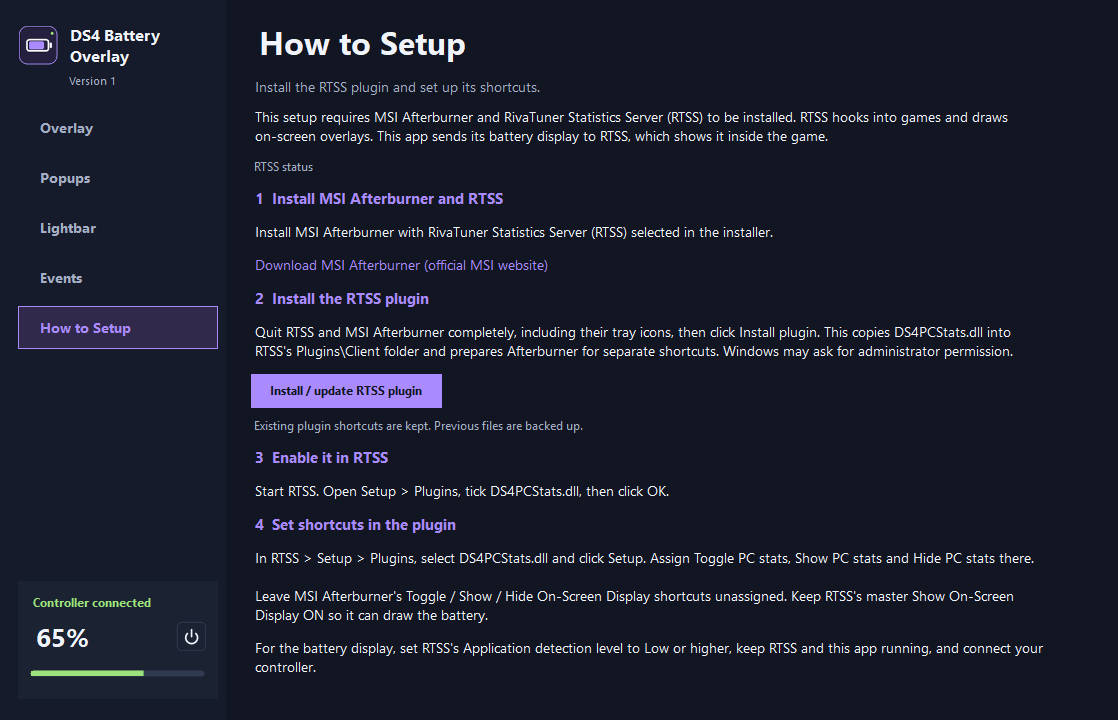
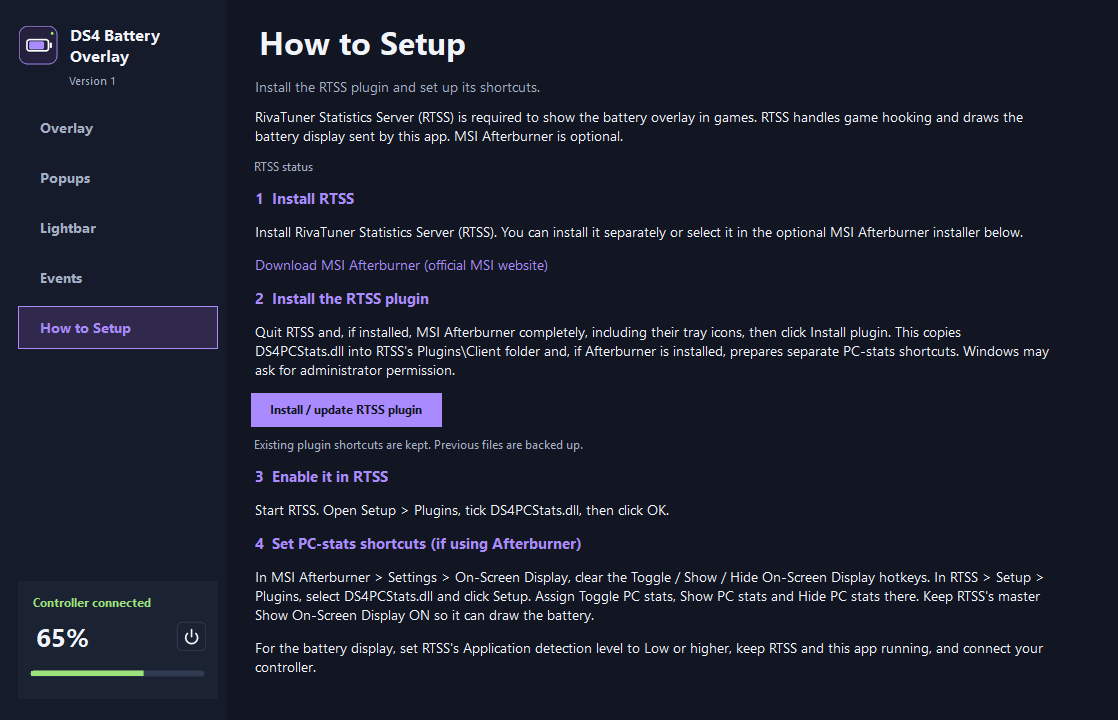
Quiet tray startup
Now starts quietly in the tray

Added troubleshooting steps

Changed region(s): [[0.2129, 0.4583, 0.9428, 0.8861], [0.2129, 0.1528, 0.9123, 0.2139], [0.2433, 0.2444, 0.9123, 0.3361]]

diff --git a/src/App/WindowsStartup.cs b/src/App/WindowsStartup.cs
@@ -7,6 +7,28 @@ static class WindowsStartup
     const string RunPath = @"Software\Microsoft\Windows\CurrentVersion\Run";
     const string Entry = "DS4 Overlay RTSS Test";
 
+    internal static bool ShouldOpenSettings(string[] arguments)
+    {
+        foreach (string argument in arguments)
+            if (string.Equals(argument, "--startup", StringComparison.OrdinalIgnoreCase)) return false;
+        return true;
+    }
+
+    internal static void UpgradeRegistration(string executable)
+    {
+        using (var key = Registry.CurrentUser.OpenSubKey(RunPath, true))
+            if (key != null) UpgradeRegistration(key, executable);
+    }
+
+    static void UpgradeRegistration(RegistryKey key, string executable)
+    {
+        string previous = key.GetValue(Entry) as string;
+        string legacy = "\"" + Path.GetFullPath(executable) + "\"";
+        // Only migrate an enabled entry for this exact copy of the application.
+        if (string.Equals(previous, legacy, StringComparison.OrdinalIgnoreCase))
+            key.SetValue(Entry, Command(executable), RegistryValueKind.String);
+    }
+
     internal static bool IsEnabled()
     {
         using (var key = Registry.CurrentUser.OpenSubKey(RunPath))
@@ -30,8 +52,42 @@ static class WindowsStartup
 
     internal static string Command(string executable)
     {
-        string command = "\"" + Path.GetFullPath(executable) + "\"";
+        string command = "\"" + Path.GetFullPath(executable) + "\" --startup";
         if (command.Length > 260) throw new IOException("Move the app to a shorter path before enabling Windows startup.");
         return command;
+    }
+
+    internal static int SelfTest(string report)
+    {
+        string testPath = @"Software\DS4OverlayRTSSTest\StartupQA\" + Guid.NewGuid().ToString("N");
+        try
+        {
+            string executable = Path.Combine(Path.GetTempPath(), "DS4 startup test", "DS4-Battery-Overlay.exe");
+            string legacy = "\"" + Path.GetFullPath(executable) + "\"";
+            string expected = legacy + " --startup";
+            if (Command(executable) != expected || !ShouldOpenSettings(new string[0]) ||
+                ShouldOpenSettings(new[] { "--startup" }) || ShouldOpenSettings(new[] { "--STARTUP" }))
+                throw new InvalidOperationException("Startup must stay in the tray while a manual launch opens settings.");
+            using (var key = Registry.CurrentUser.CreateSubKey(testPath))
+            {
+                UpgradeRegistration(key, executable);
+                if (key.GetValue(Entry) != null) throw new InvalidOperationException("Startup was enabled without being requested.");
+                key.SetValue(Entry, legacy);
+                key.SetValue("Unrelated", "keep");
+                UpgradeRegistration(key, executable);
+                if ((string)key.GetValue(Entry) != expected || (string)key.GetValue("Unrelated") != "keep")
+                    throw new InvalidOperationException("An existing startup entry was not migrated safely.");
+                UpgradeRegistration(key, executable);
+                if ((string)key.GetValue(Entry) != expected) throw new InvalidOperationException("Startup migration was not idempotent.");
+                string otherCopy = "\"" + Path.Combine(Path.GetTempPath(), "Other copy", "DS4-Battery-Overlay.exe") + "\"";
+                key.SetValue(Entry, otherCopy);
+                UpgradeRegistration(key, executable);
+                if ((string)key.GetValue(Entry) != otherCopy) throw new InvalidOperationException("A different app copy's startup entry was replaced.");
+            }
+            File.WriteAllText(report, "PASS quoted startup command with --startup, tray-only automatic launch, visible manual launch, safe migration of existing entries, disabled startup preserved, unrelated values preserved, idempotence and other app copies left intact.");
+            return 0;
+        }
+        catch (Exception error) { File.WriteAllText(report, error.ToString()); return 1; }
+        finally { Registry.CurrentUser.DeleteSubKeyTree(testPath, false); }
     }
 }

diff --git a/src/App/RtssOutput.cs b/src/App/RtssOutput.cs
@@ -553,11 +553,11 @@ sealed class RtssPage : UserControl
         Dock = DockStyle.Fill; BackColor = StudioTheme.Canvas; AutoScroll = true;
         guide.ColumnStyles.Add(new ColumnStyle(SizeType.Percent, 100));
         Controls.Add(guide);
-        Paragraph(guide, "This setup requires MSI Afterburner and RivaTuner Statistics Server (RTSS) to be installed. RTSS hooks into games and draws on-screen overlays. This app sends its battery display to RTSS, which shows it inside the game.");
+        Paragraph(guide, "RivaTuner Statistics Server (RTSS) is required to show the battery overlay in games. RTSS handles game hooking and draws the battery display sent by this app. MSI Afterburner is optional.");
         status.ForeColor = StudioTheme.Muted;
         AddParagraph(guide, status);
-        Heading(guide, "1  Install MSI Afterburner and RTSS");
-        Paragraph(guide, "Install MSI Afterburner with RivaTuner Statistics Server (RTSS) selected in the installer.");
+        Heading(guide, "1  Install RTSS");
+        Paragraph(guide, "Install RivaTuner Statistics Server (RTSS). You can install it separately or select it in the optional MSI Afterburner installer below.");
         var download = new LinkLabel {
             Text = "Download MSI Afterburner (official MSI website)", Font = StudioTheme.Font(10),
             LinkColor = StudioTheme.Accent, ActiveLinkColor = StudioTheme.Text,
@@ -578,7 +578,7 @@ sealed class RtssPage : UserControl
         };
         AddParagraph(guide, download);
         Heading(guide, "2  Install the RTSS plugin");
-        Paragraph(guide, "Quit RTSS and MSI Afterburner completely, including their tray icons, then click Install plugin. This copies DS4PCStats.dll into RTSS's Plugins\\Client folder and prepares Afterburner for separate shortcuts. Windows may ask for administrator permission.");
+        Paragraph(guide, "Quit RTSS and, if installed, MSI Afterburner completely, including their tray icons, then click Install plugin. This copies DS4PCStats.dll into RTSS's Plugins\\Client folder and, if Afterburner is installed, prepares separate PC-stats shortcuts. Windows may ask for administrator permission.");
         var install = StudioTheme.Button("Install / update RTSS plugin", true);
         install.Margin = new Padding(0, 0, 0, 10);
         AddControl(install);
@@ -602,8 +602,8 @@ sealed class RtssPage : UserControl
         };
         Heading(guide, "3  Enable it in RTSS");
         Paragraph(guide, "Start RTSS. Open Setup > Plugins, tick DS4PCStats.dll, then click OK.");
-        Heading(guide, "4  Set shortcuts in the plugin");
-        Paragraph(guide, "In RTSS > Setup > Plugins, select DS4PCStats.dll and click Setup. Assign Toggle PC stats, Show PC stats and Hide PC stats there.\n\nLeave MSI Afterburner's Toggle / Show / Hide On-Screen Display shortcuts unassigned. Keep RTSS's master Show On-Screen Display ON so it can draw the battery.");
+        Heading(guide, "4  Set PC-stats shortcuts (if using Afterburner)");
+        Paragraph(guide, "In MSI Afterburner > Settings > On-Screen Display, clear the Toggle / Show / Hide On-Screen Display hotkeys. In RTSS > Setup > Plugins, select DS4PCStats.dll and click Setup. Assign Toggle PC stats, Show PC stats and Hide PC stats there. Keep RTSS's master Show On-Screen Display ON so it can draw the battery.");
         Paragraph(guide, "For the battery display, set RTSS's Application detection level to Low or higher, keep RTSS and this app running, and connect your controller.");
         ClientSizeChanged += delegate { FitGuide(); };
         VisibleChanged += delegate {

diff --git a/src/App/DS4Studio.cs b/src/App/DS4Studio.cs
@@ -128,7 +128,10 @@ sealed class Overlay : Form
         trayMenu.Opening += delegate { UpdatePowerOffItem(); };
         if (loadPreferences)
         {
-            try { startupItem.Checked = WindowsStartup.IsEnabled(); }
+            try {
+                WindowsStartup.UpgradeRegistration(Application.ExecutablePath);
+                startupItem.Checked = WindowsStartup.IsEnabled();
+            }
             catch (UnauthorizedAccessException) { }
             catch (System.Security.SecurityException) { }
             startupItem.Click += delegate {
@@ -661,6 +664,7 @@ sealed class Overlay : Form
         Application.EnableVisualStyles();
         Application.SetCompatibleTextRenderingDefault(false);
         if (args.Length == 1 && args[0] == "--install-rtss-plugin") return RtssPluginInstaller.Run();
+        if (args.Length == 1 && args[0] == "--startup-self-test") return WindowsStartup.SelfTest(Path.Combine(AppDomain.CurrentDomain.BaseDirectory, "startup-self-test.txt"));
         if (args.Length == 1 && args[0] == "--rtss-self-test") return RtssDiagnostics.SelfTest();
         if (args.Length == 1 && args[0] == "--widget-self-test") return DesktopBatteryWidget.SelfTest(Path.Combine(AppDomain.CurrentDomain.BaseDirectory, "widget-self-test.txt"));
         if (args.Length == 1 && args[0] == "--studio-widget-self-test") return StudioWindowPresentation.SelfTest(Path.Combine(AppDomain.CurrentDomain.BaseDirectory, "studio-widget-self-test.txt"));
@@ -775,7 +779,8 @@ sealed class Overlay : Form
             using (var session = new RtssTestSession())
             using (var trayApp = new Overlay(session.Publisher, true, session.Legacy))
             {
-                trayApp.BeginInvoke(new Action(trayApp.Customize));
+                if (WindowsStartup.ShouldOpenSettings(args))
+                    trayApp.BeginInvoke(new Action(trayApp.Customize));
                 Application.Run();
             }
         }

diff --git a/src/App/RtssPluginInstaller.cs b/src/App/RtssPluginInstaller.cs
@@ -158,7 +158,7 @@ static class RtssPluginInstaller
                     "DS4OverlayRTSSTest", "RTSSPluginBackups"), RequireClosed);
             string message = (result.Changed ? "Plugin installed." : "The plugin is already up to date.") +
                 "\n\nStart RTSS, open Setup > Plugins, enable DS4PCStats.dll and click OK. Select the plugin and open Setup to set its shortcuts.";
-            if (!result.AfterburnerConfigured) message += "\n\nMSI Afterburner was not found. Run this installer again after installing it to prepare independent PC-stats shortcuts.";
+            if (!result.AfterburnerConfigured) message += "\n\nMSI Afterburner is optional. If you install it later, run this installer again to prepare independent PC-stats shortcuts.";
             if (result.BackupDirectory != null) message += "\n\nPrevious files were backed up to:\n" + result.BackupDirectory;
             MessageBox.Show(message, "RTSS plugin", MessageBoxButtons.OK, MessageBoxIcon.Information);
             return 0;

diff --git a/README.md b/README.md
@@ -17,7 +17,7 @@
 
 A lightweight Windows app that shows your DualShock 4 battery in games through **RivaTuner Statistics Server (RTSS)**. Add a movable desktop widget, choose when notifications appear, and personalize the controller's lightbar—all from one interface.
 
-**[Get started](#getting-started)** · **[Screenshots](#screenshots)** · **[Build from source](#build-from-source)** · **[Troubleshooting](docs/TROUBLESHOOTING.md)**
+**[Get started](#getting-started)** · **[Screenshots](#screenshots)** · **[Build from source](#build-from-source)** · **[Troubleshooting](#troubleshooting)**
 
 ## Features
 
@@ -38,19 +38,39 @@ A lightweight Windows app that shows your DualShock 4 battery in games through *
 
 - Windows 10 or 11, **64-bit**, with .NET Framework 4.8.
 - A DualShock 4 connected over Bluetooth or USB and visible to this app.
-- **MSI Afterburner and RTSS**, installed separately. Select RivaTuner Statistics Server in the Afterburner installer: **[official MSI Afterburner download](https://www.msi.com/Landing/afterburner)**.
+- **RTSS**, installed separately. MSI Afterburner is optional; you can also install RTSS through the **[official MSI Afterburner installer](https://www.msi.com/Landing/afterburner)** by selecting RivaTuner Statistics Server.
 
 ### Setup
 
 1. Download the Windows ZIP from this repository's **Releases** section, extract it to a permanent folder, and run `DS4-Battery-Overlay.exe`.
-2. Quit RTSS and MSI Afterburner completely, including their tray icons. In this app, open **How to Setup → Install / update RTSS plugin**. Accept the Windows administrator prompt.
+2. Quit RTSS and, if installed, MSI Afterburner completely, including their tray icons. In this app, open **How to Setup → Install / update RTSS plugin**. Accept the Windows administrator prompt.
 3. Start RTSS. Open **Setup → Plugins**, enable **DS4PCStats.dll**, and click **OK**.
-4. Select that plugin and open **Setup** to assign **Toggle PC stats**, **Show PC stats**, and **Hide PC stats**. Leave Afterburner's global OSD shortcuts unassigned and RTSS's master **Show On-Screen Display** switched on.
+4. If you use MSI Afterburner stats, select that plugin and open **Setup** to assign **Toggle PC stats**, **Show PC stats**, and **Hide PC stats**. Leave Afterburner's global OSD shortcuts unassigned. Keep RTSS's master **Show On-Screen Display** switched on.
 5. Keep RTSS and DS4 Battery Overlay running, set RTSS's **Application detection level** to **Low** or higher for the game, and connect your controller.
 
 The battery shortcut defaults to **Ctrl + Shift + F8** and can be changed on the Overlay page. Click the tray icon to bring the app forward; right-click it for quick actions.
 
 The app embeds its own plugin, so the install button does not require you to copy a DLL manually. It preserves existing plugin shortcuts, backs up changed files, and prepares Afterburner's output for independent PC-stat controls. See [what the installer changes](docs/ARCHITECTURE.md#plugin-installation).
+
+## Troubleshooting
+
+**I don't see any overlay in-game.**
+
+RTSS must be running to display in-game overlays. Keep both RTSS and DS4 Battery Overlay open.
+
+**RTSS is running, but there is still no overlay.**
+
+Quit DS4 Battery Overlay, right-click its EXE, and select **Run as administrator**. Also check that RTSS's **Show On-Screen Display** is on and **Application detection level** is **Low** or higher for your game.
+
+**Toggling MSI Afterburner stats also toggles the battery overlay.**
+
+In **MSI Afterburner → Settings → On-Screen Display**, clear the **Toggle**, **Show**, and **Hide On-Screen Display** hotkeys. Then open **RTSS → Setup → Plugins**, enable **DS4PCStats.dll**, select it, and click **Setup**. Set **Toggle PC stats**, **Show PC stats**, and **Hide PC stats** there. Keep RTSS's master OSD on; change the battery shortcut separately on this app's **Overlay** page.
+
+**Do I need MSI Afterburner installed?**
+
+No. Only **RTSS** is required for the in-game battery overlay. MSI Afterburner is optional.
+
+For other issues, see the [full troubleshooting guide](docs/TROUBLESHOOTING.md).
 
 ## Screenshots
 
@@ -114,7 +134,7 @@ See [Architecture](docs/ARCHITECTURE.md) for implementation details and [Trouble
 
 ## Updates and settings
 
-Quit the app before replacing the executable in the same folder. Settings and event history are kept separately and survive updates. Windows startup is opt-in and points to the executable's current location, so keep it in a permanent folder.
+Quit the app before replacing the executable in the same folder. Settings and event history are kept separately and survive updates. Windows startup is opt-in and launches quietly in the tray; click the tray icon to open settings. Opening the EXE manually still opens the settings window. Keep the executable in a permanent folder because the startup entry points to its current location.
 
 For compatibility with earlier development builds, settings use `HKEY_CURRENT_USER\Software\DS4OverlayRTSSTest`, and event history uses `%LOCALAPPDATA%\DS4OverlayRTSSTest\controller-events.log`.
 

diff --git a/docs/QUICKSTART.md b/docs/QUICKSTART.md
@@ -2,11 +2,11 @@
 
 ## Install
 
-1. Install MSI Afterburner with RivaTuner Statistics Server (RTSS) selected in the installer: https://www.msi.com/Landing/afterburner
+1. Install RivaTuner Statistics Server (RTSS). MSI Afterburner is optional; you can also install RTSS through its installer: https://www.msi.com/Landing/afterburner
 2. Extract this ZIP to a permanent folder and run DS4-Battery-Overlay.exe. Windows 10/11 x64 with .NET Framework 4.8 is required.
-3. Quit RTSS and MSI Afterburner completely. Open How to Setup in this app and click Install / update RTSS plugin. Accept Windows' administrator prompt.
+3. Quit RTSS and, if installed, MSI Afterburner completely. Open How to Setup in this app and click Install / update RTSS plugin. Accept Windows' administrator prompt.
 4. Start RTSS, open Setup > Plugins, enable DS4PCStats.dll and click OK.
-5. Select the plugin and open Setup to assign Toggle / Show / Hide PC stats. Leave the three master OSD shortcuts in MSI Afterburner unassigned. Keep RTSS's master Show On-Screen Display on.
+5. If you use MSI Afterburner stats, select the plugin and open Setup to assign Toggle / Show / Hide PC stats. Leave the three master OSD shortcuts in MSI Afterburner unassigned. Keep RTSS's master Show On-Screen Display on.
 6. Keep RTSS and the battery app running, set RTSS's Application detection level to Low or higher for your game, and connect your controller.
 
 The installer embeds and verifies this project's plugin, preserves existing plugin shortcuts, and backs up changed plugin/Afterburner files under %LOCALAPPDATA%\DS4OverlayRTSSTest\RTSSPluginBackups. The PCStats folder also contains the plugin and an unassigned default configuration for reference.
@@ -14,6 +14,7 @@ The installer embeds and verifies this project's plugin, preserves existing plug
 ## Use
 
 - Click the tray icon to open the settings. The default battery visibility shortcut is Ctrl + Shift + F8; change it on the Overlay page.
+- Launch on Windows startup starts quietly in the tray. Opening the EXE manually opens settings.
 - Game overlay and Desktop widget have separate settings. Turn off Click through widget to move it with the mouse.
 - Select popup triggers and duration on the Popups page. Use delayed tests to check notifications in a game.
 - Lightbar control is optional. Disable it here if another program should control the lightbar.
@@ -22,8 +23,15 @@ The installer embeds and verifies this project's plugin, preserves existing plug
 
 RTSS handles game hooking. Support depends on RTSS and the game; detection exclusions or protected games can prevent overlays.
 
+## Troubleshooting
+
+- No in-game overlay: keep RTSS and the battery app running.
+- RTSS is running but there is still no overlay: quit the battery app and run its EXE as administrator. Check that RTSS's OSD is on and application detection is Low or higher.
+- Afterburner's hotkeys also hide the battery: clear Toggle / Show / Hide On-Screen Display in Afterburner > Settings > On-Screen Display. Enable DS4PCStats.dll in RTSS > Setup > Plugins, select it, open Setup and assign Toggle / Show / Hide PC stats there. Keep RTSS's master OSD on.
+- MSI Afterburner is optional. Only RTSS is required for the in-game battery overlay.
+
 ## Update
 
 Quit the app, replace DS4-Battery-Overlay.exe in the same folder, and reopen it. Settings and event history are preserved.
 
-MIT license. RTSS and MSI Afterburner must be installed separately and retain their own terms.
+MIT license. RTSS must be installed separately; optional MSI Afterburner retains its own terms.

diff --git a/docs/TROUBLESHOOTING.md b/docs/TROUBLESHOOTING.md
@@ -6,15 +6,23 @@
 - Keep RTSS and the battery app running. Verify that RTSS's master Show On-Screen Display is enabled and application detection is Low or higher for the game.
 - Check the battery toggle shortcut. PC-stat visibility and battery visibility are separate.
 - Check RTSS's own compatibility with the game. Detection exclusions, graphics wrappers, protected games, and some presentation modes can prevent overlays. This app does not bypass game protections.
-- If the game runs elevated, check whether Windows is preventing RTSS or the app from accessing the required information. Use ordinary privileges where possible.
+- If RTSS is running but the overlay still does not appear, quit DS4 Battery Overlay, right-click its EXE, and choose Run as administrator.
+
+## Do I need MSI Afterburner?
+
+No. Only RTSS is required for the in-game battery overlay. MSI Afterburner is optional and is only needed if you want its PC monitoring statistics.
 
 ## Toggling PC stats also hides the battery
 
-Afterburner's global OSD shortcuts affect RTSS's master visibility. Leave them unassigned. Set Toggle / Show / Hide PC stats inside RTSS > Setup > Plugins > DS4PCStats.dll > Setup. Set the battery shortcut in the battery app.
+In MSI Afterburner > Settings > On-Screen Display, clear the Toggle, Show and Hide On-Screen Display hotkeys. In RTSS > Setup > Plugins, enable DS4PCStats.dll, select it, and open Setup. Assign Toggle PC stats, Show PC stats and Hide PC stats there. Keep RTSS's master Show On-Screen Display on. Set the battery shortcut separately on this app's Overlay page.
 
 ## The plugin installer asks me to close programs
 
-Quit RTSS and MSI Afterburner completely, including their tray icons. The installer updates the plugin and configuration while neither program is writing those files. Start them again after installation, then enable the plugin in RTSS.
+Quit RTSS and, if installed, MSI Afterburner completely, including their tray icons. The installer updates the plugin and configuration while neither program is writing those files. Start them again after installation, then enable the plugin in RTSS.
+
+## Does Windows startup open the settings window?
+
+No. Launch on Windows startup starts the app quietly in the tray. Click the tray icon to open settings. Running the EXE manually opens settings normally. Existing enabled startup entries for the same executable are updated automatically when you run the updated app.
 
 ## The controller is missing or updates pause
 

diff --git a/docs/BUILDING.md b/docs/BUILDING.md
@@ -36,11 +36,11 @@ The checked-in C# files are the final Version 1 sources. There is no source rewr
 
 ## Tests
 
-`-RunTests` runs the application's existing self-test entry points for appearance, battery mapping, power-off eligibility, PS-button hold timing, event export, RTSS output, widget behavior, and settings-window lifecycle. The C++ tests use dedicated fake RTSS/Afterburner mappings and verify that the plugin leaves foreign output intact.
+`-RunTests` runs the application's existing self-test entry points for appearance, battery mapping, power-off eligibility, PS-button hold timing, event export, tray-only startup and registration migration, RTSS output, widget behavior, and settings-window lifecycle. The C++ tests use dedicated fake RTSS/Afterburner mappings and verify that the plugin leaves foreign output intact.
 
 The appearance/RTSS/widget checks use Windows UI facilities, and some checks temporarily exercise then restore preferences. Run them in a normal Windows session with no simultaneous settings edits. They do not launch games, install plugins, modify Afterburner configuration, or write controller output reports. They supplement, rather than replace, testing with a controller and a game.
 
-GitHub Actions passes `-SkipDesktopTests` because hosted runners do not provide a normal user desktop. It runs the appearance, battery, power, PS-hold, export, and native plugin checks. Run the full default suite locally to also verify RTSS/widget desktop integration.
+GitHub Actions passes `-SkipDesktopTests` because hosted runners do not provide a normal user desktop. It runs the appearance, battery, power, PS-hold, export, startup, and native plugin checks. Run the full default suite locally to also verify RTSS/widget desktop integration.
 
 The workflow uses GitHub's official [checkout](https://github.com/actions/checkout) and [upload-artifact](https://github.com/actions/upload-artifact) actions.
 

diff --git a/docs/ARCHITECTURE.md b/docs/ARCHITECTURE.md
@@ -43,4 +43,6 @@ It does not install RTSS itself or copy DLLs into game directories. Enable the p
 | Plugin hotkeys | `DS4PCStats.cfg` beside the installed client plugin |
 | Optional startup entry | `HKCU\Software\Microsoft\Windows\CurrentVersion\Run`, value `DS4 Overlay RTSS Test` |
 
+The startup command includes `--startup` to suppress the settings window at login. A manual launch opens settings normally. Existing enabled entries pointing at the same executable are migrated to this command; disabled entries and entries for a different app copy are preserved.
+
 The internal development-era names remain to preserve existing users' data. No network service, account, telemetry, or update downloader is required by this application.

diff --git a/CHANGELOG.md b/CHANGELOG.md
@@ -1,5 +1,10 @@
 # Changelog
 
+## Unreleased
+
+- Windows startup launches quietly in the tray; manual launches still open settings. Existing startup entries for the same executable are updated automatically.
+- Added common-problem troubleshooting and clarified that MSI Afterburner is optional; only RTSS is required for the in-game battery overlay.
+
 ## 1.0 — Version 1
 
 Initial public release of DS4 Battery Overlay.
